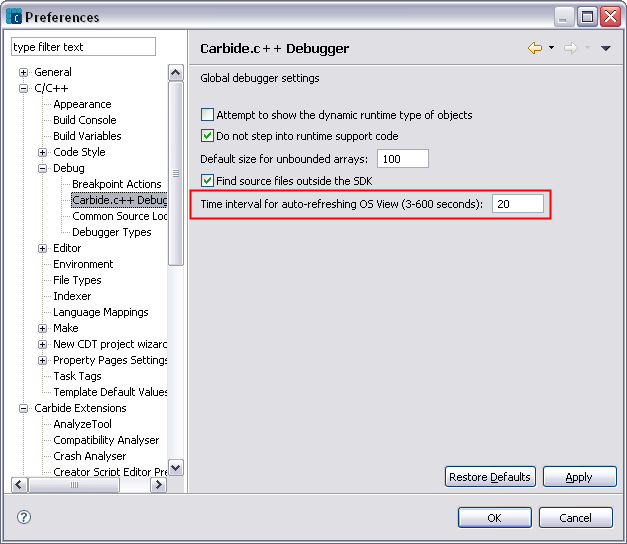
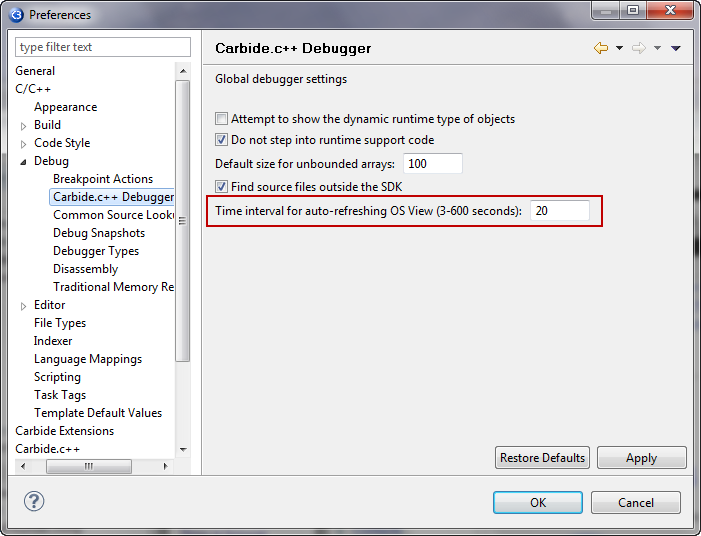
minor edits and updates to index

Changed region(s): [[0.0, 0.0, 1.0, 1.0]]

diff --git a/core/com.nokia.carbide.cpp.doc.user/html/tasks/trk/trk_carbide_setup.htm b/core/com.nokia.carbide.cpp.doc.user/html/tasks/trk/trk_carbide_setup.htm
@@ -15,15 +15,15 @@
   <li><b>Symbian OS System CODA</b> (<i>not available in the Developer Edition</i>) &#8212;used to run or debug applications or ROM code on a target device using the System CODA on-device debug agent. System CODA is an application that runs on reference boards and prototype phones and allows you to debug your executables. The debugger will download files to the phone prior to launching.</li>
 </ul>
 <p>By default, you can click the <b>Debug</b> icon (<img src="../../projects/images/icon_debug.png" width="17" height="16" align="absmiddle">) in the toolbar to launch the <a href="../../projects/launch/wiz_new_launch_config.htm">New Launch Configuration Wizard</a>. This   creates a launch configuration for the project based on project information and any additional input required, like COM port selection. It is the recommended method for creating new launch configurations. Or, use the <a href="../../projects/launch/page_main.htm">Debug</a> window to create a customized  launch configuration. </p>
-<p align="center"><img src="../../reference/images/wnd_trk_debug_config.png" width="859" height="629" /></p>
-<p class="figure">Figure 1. Debug launch configuration for on-device debugging   (<i>Application CODA shown</i>)</p>
+<p align="center"><img src="../../reference/images/wnd_trk_debug_config.png" width="936" height="640" /></p>
+<p class="figure">Figure 1. Debug launch configuration for on-device debugging   (<i>Application TCF CODA shown</i>)</p>
 <div class="step">
   <h4>Defining a Customized  Launch Configuration </h4>
   <ol>
     <li>Choose the Run &gt; Debug As menu item </li>
     <p>The <a href="../../reference/wnd_debug_configuration.htm">Debug</a> window appears.</p>
     <li>Select a Configuration type for on-device debugging and click New</li>
-    <p>Choose the <b>Symbian OS Application CODA </b> or <b>System CODA</b> configuration based on which debug agent is installed on the device, then click <b>New</b>. A new debug launch configuration appears in the Configuration list and the Main tab appears. </p>
+    <p>Choose the <b>Symbian OS Application TCF CODA </b> or <b>System CODA</b> configuration based on which debug agent is installed on the device, then click <b>New</b>. A new debug launch configuration appears in the Configuration list and the Main tab appears. </p>
     <li>Enter the required information</li>
     <p>For  debug launch configurations using the CODA debug agent, the following   pages require review and possible option settings:</p>
     <ul>

diff --git a/core/com.nokia.carbide.cpp.doc.user/html/tasks/trk/trk_overview.htm b/core/com.nokia.carbide.cpp.doc.user/html/tasks/trk/trk_overview.htm
@@ -4,12 +4,12 @@
 <meta http-equiv="Content-Type" content="text/html; charset=ISO-8859-1" />
 <meta http-equiv="Content-Style-Type" content="text/css" />
 <meta name="LASTUPDATED" content="06/17/05 11:09:43" />
-<title>TRK Overview</title>
+<title>CODA Overview</title>
 <link rel="StyleSheet" href="../../../book.css" type="text/css"/>
 </head>
 <body >
-<h2>TRK Overview</h2>
-<p>This section describes how to setup and use the on-device debug agent software to debug programs on S60 v3.x and UIQ 3rd edition devices. Topics include: </p>
+<h2>CODA Overview</h2>
+<p>This section describes how to setup and use the CODA software (Carbide On-device Debug Agent) to debug programs on Symbian ^3, Symbian ^4, Nokia Qt SDK, S60 v5.x   devices. Topics include: </p>
 <ul>
   <li><a href="trk_preconditions.htm">Preconditions for Using On-device Debugging </a></li>
   <li><a href="trk_installation_instr.htm">Installing the </a><a href="trk_preconditions.htm">On-device Debug Agent </a><a href="trk_installation_instr.htm">on a Device</a></li>

diff --git a/core/com.nokia.carbide.cpp.doc.user/html/tasks/debugger/view_symbian_kernel_set.htm b/core/com.nokia.carbide.cpp.doc.user/html/tasks/debugger/view_symbian_kernel_set.htm
@@ -14,11 +14,10 @@
   <h4>To set the refresh rate</h4>
   <ol>
     <li>Select Window &gt; Preferences to display Preferences window</li>
-    <li>Expand C/C++ and Debug from list</li>
-    <li>Select Carbide.c++ to display the Carbide.c++ Global settings panel (figure 1)</li>
+    <li>Expand C/C++ &gt; Debug &gt; Carbide.c++ Debugger from list (figure 1)</li>
     <li>Enter a time interval from 3 to 600 seconds for kernel data to be refreshed. 20 seconds is the default.</li>
-  </ol>
-  <p align="center"><img src="images/setinterval_symOS_view.png" width="627" height="544" /> </p>
+    </ol>
+  <p align="center"><img src="images/setinterval_symOS_view.png" width="701" height="536" /> </p>
   <p align="center" class="figure">Figure 1. Symbian OS Kernel Data Refresh Rate </p>
 </div>
 <h5>Related concepts</h5>

diff --git a/core/com.nokia.carbide.cpp.doc.user/html/reference/trk/panel_trk_overview.htm b/core/com.nokia.carbide.cpp.doc.user/html/reference/trk/panel_trk_overview.htm
@@ -4,7 +4,7 @@
 <meta http-equiv="Content-Type" content="text/html; charset=ISO-8859-1" />
 <meta http-equiv="Content-Style-Type" content="text/css" />
 <meta name="LASTUPDATED" content="06/17/05 11:09:43" />
-<title>TRK Panel Overview</title>
+<title>CODA Panel Overview</title>
 <link rel="StyleSheet" href="../../../book.css" type="text/css"/>
 </head>
 <body >

diff --git a/core/com.nokia.carbide.cpp.doc.user/book.css b/core/com.nokia.carbide.cpp.doc.user/book.css
@@ -12,8 +12,8 @@ html {
 /* 20091007 added verdana and ariel to list to match SFO website fonts choices */
 body, p, table, li {
 	font-family: Verdana, Ariel, Helvetica, sans-serif;
-	font-size: 1.0em;
 	font-size: 0.9em;
+	font-size: 1.0em;
 	font-weight: normal;
 }
 
